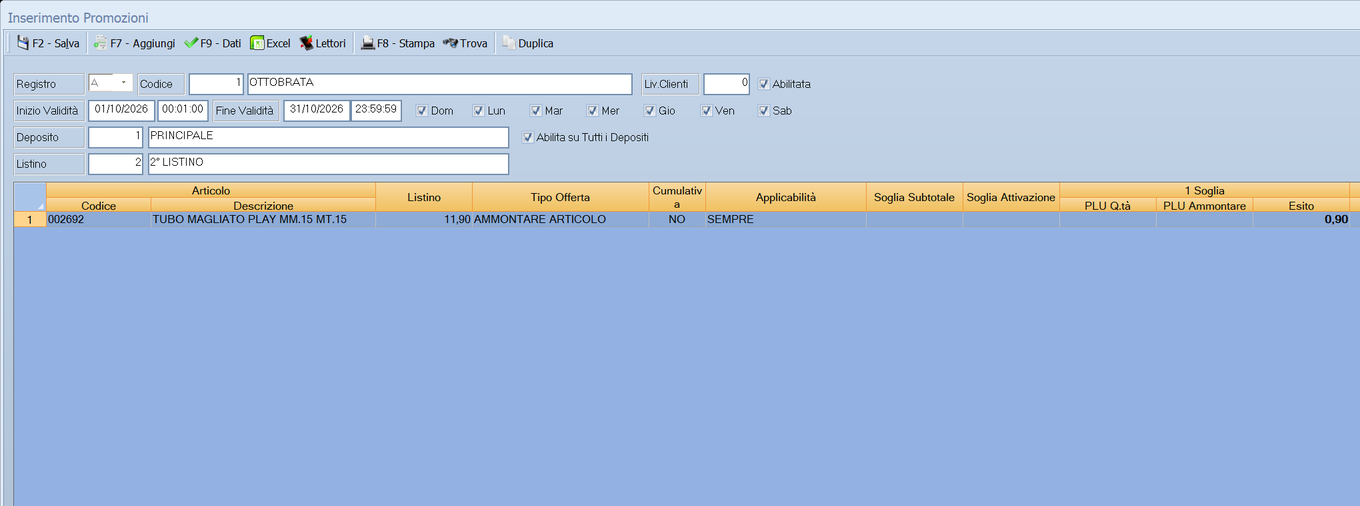
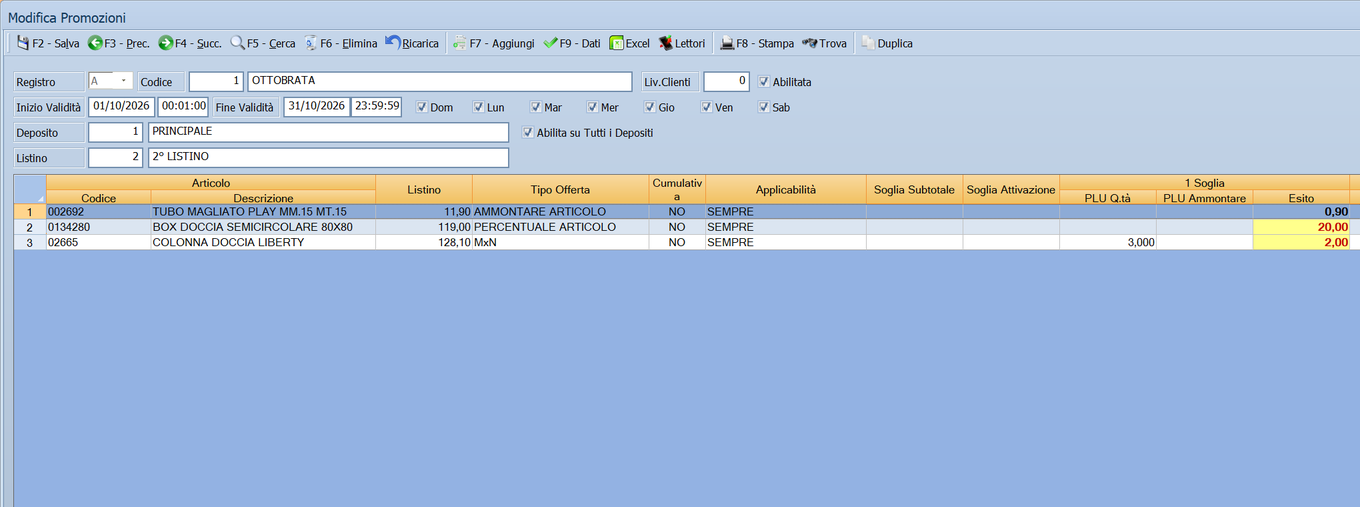
Promozioni: esempi di taglio prezzo, sconto % e 3x2, con le schermate
Nuova sezione "Impostare le tre promozioni piu' comuni" con le tre righe
della promozione OTTOBRATA: 02 - Ammontare Articolo (con il tasto F10 che
trasforma il prezzo promozionale nello sconto), 04 - Percentuale Articolo
e 05 - MxN. Rifatte le schermate della testata e della riga, prese dopo il
passaggio al nuovo font delle etichette.

Corretto dal codice: il 3x2 lo applica anche il Pos Touchscreen, non solo
le casse. Aggiunti alla tabella della riga Sconto Aggiuntivo e Azione
Posticipata, che mancavano. Due domande aperte (DA VERIFICARE): che cosa
fa Azione Posticipata sulla cassa, e se per il 3x2 va (Si) o (No).

Changed region(s): [[0.0, 0.0, 1.0, 0.504]]

diff --git a/docs/moduli/vendite/promozioni.md b/docs/moduli/vendite/promozioni.md
@@ -119,6 +119,8 @@ prezzo netto in promozione è 11,00.
 | **Casualità** | | La quota di casualità nell'applicazione dell'offerta. La usano **solo le casse SysPC**. | da `0` a `32767` |
 | **Frontalino** | | Il formato del frontalino da stampare per questa riga. | `PICCOLO`, `MEDIO`, `GRANDE`, `NESSUNO` |
 | **Codice Mix** | | Il codice che lega fra loro le righe di un'offerta mista. | codice |
+| **Sconto Aggiuntivo** | | Compare solo con `04 - Percentuale Articolo`, e solo se la ditta lavora a prezzi IVA esclusa. Con la spunta, sui documenti la percentuale si aggiunge agli sconti già presenti sulla riga; senza, la riga prende il prezzo promozionale e perde gli altri sconti. | spunta |
+| **Azione Posticipata** | | Viene trasmessa solo alle casse SysPC, e solo per le offerte `02`, `04`, `07` e a gruppo di articoli. Facile non la usa. <!-- DA VERIFICARE: che cosa fa la cassa SysPC quando l'azione è posticipata? --> | spunta |
 
 Aprendo una riga nuova, i campi non partono vuoti: **periodo, ora, giorni,
 deposito, listino, livello clienti e la spunta Abilitata** sono quelli della
@@ -126,7 +128,7 @@ testata, e l'offerta parte già impostata su `02 - Ammontare Articolo`,
 `(No) - Articoli Autonomi`, applicabilità **Sempre**, limiti da `0,01` a
 `9.999.999,99` e frontalino `PICCOLO`.
 
-!!! warning "In Facile valgono solo tre tipi di offerta su diciassette"
+!!! warning "Sui documenti di Facile valgono solo tre tipi di offerta su diciassette"
 
     Le diciassette forme di offerta descrivono quello che sa fare il **punto
     cassa**. Quando invece è Facile a fare il documento — vendita al banco,
@@ -142,7 +144,8 @@ testata, e l'offerta parte già impostata su `02 - Ammontare Articolo`,
 
     Tutte le altre — il 3x2, il paniere, i coupon, le multisoglia — sono
     trasmesse alle casse e applicate lì: sul documento fatto da Facile non
-    hanno effetto.
+    hanno effetto. Fa eccezione il 3x2, che il **Pos Touchscreen** calcola
+    anche da sé: vedi [Prendi 3 paghi 2](#prendi-3-paghi-2).
 
 !!! note "Come si leggono Tipo Offerta, Cumulativa e Applicabilità insieme"
 
@@ -161,6 +164,7 @@ testata, e l'offerta parte già impostata su `02 - Ammontare Articolo`,
     | Sconto fisso sull'articolo, sempre | `02 - Ammontare Articolo` | `(No)` | `Sempre` |
     | Sconto percentuale sull'articolo, sempre | `04 - Percentuale Articolo` | `(No)` | `Sempre` |
     | Prendi 3 paghi 2 | `05 - MxN` | `(Si)` | `Sempre` |
+    <!-- DA VERIFICARE: il 3x2 di esempio in "Come si fa" usa (No) - Articoli Autonomi; per le casse vale (Si) o (No)? Facile non legge questo campo. -->
     | Sconto solo sul primo pezzo dello scontrino | `02` oppure `04` | `(No)` | `Una Volta nello Scontrino` |
     | Regalo al raggiungimento di una soglia | `06 - Regalo Articolo` | `(Set)` | `In Continuo dopo la Soglia` |
     | Sconto su un insieme di articoli diversi | `10` o `11` — gruppo articoli | `(Pan) - Paniere` | `Sempre` |
@@ -211,6 +215,98 @@ testata, e l'offerta parte già impostata su `02 - Ammontare Articolo`,
 5. Premi **F8 - Stampa ▸ Stampa Frontalini Promozione** per i cartellini.
 6. Manda la promozione alle casse da **Menu ▸ Casse e Bilance**, con
    [Invio Variazioni Articoli](../casse-bilance/casse.md).
+
+### Impostare le tre promozioni più comuni
+
+Il taglio di prezzo, lo sconto in percentuale e il *prendi 3 paghi 2* sono le
+offerte che si usano più spesso. I tre esempi sono le righe della promozione
+*OTTOBRATA* che si vede in [La maschera](#la-maschera): vale tutto ottobre,
+tutti i giorni, sul deposito 1 e sul 2° listino.
+
+Per ciascuno si parte allo stesso modo:
+
+1. Con la promozione aperta, premi **F7 - Aggiungi** e scegli *Promozione
+   Standard*.
+2. Indica l'articolo. Si apre la finestra della riga, con il prezzo di listino
+   già riportato in **Listino**.
+3. Compila la riga come spiegato negli esempi che seguono e salvala con
+   **F2 - Salva**. La riga compare nella griglia della promozione.
+
+In tutti e tre gli esempi **Soglia Q.tà** (per il 3x2, **Valore M**) e
+**Soglia Ammont.** si compilano solo nella prima riga di **Soglie Effetti**;
+le altre nove restano a zero.
+
+#### Taglio di prezzo: da 11,90 a 11,00
+
+Il tubo costa 11,90 a listino e in promozione va venduto a 11,00.
+
+![Riga con il taglio di prezzo](../../assets/img/vendite/promozioni-riga.png)
+
+1. In **Tipo Offerta** lascia `02 - Ammontare Articolo`, che sulle righe nuove
+   è già proposto.
+2. Lascia **Offerta Cumulativa** su `(No) - Articoli Autonomi` e
+   **Applicabilità** su `Sempre`.
+3. Nella prima riga di **Soglie Effetti** lascia **Soglia Q.tà** e
+   **Soglia Ammont.** a zero.
+4. In **Sconto €** scrivi quanto togliere al prezzo: `0,90`.
+5. Premi **F2 - Salva**. Prima del salvataggio **Prezzo Netto** mostra `11,00`;
+   in griglia la riga è *AMMONTARE ARTICOLO* con esito `0,90`.
+
+!!! tip "Se conosci il prezzo promozionale e non lo sconto"
+
+    Scrivi in **Sconto €** il prezzo a cui vuoi vendere, `11,00`, e premi
+    ++f10++: il programma lo trasforma nello sconto, `0,90`. Funziona solo con
+    `02 - Ammontare Articolo` e con un prezzo più basso di quello di listino.
+
+#### Sconto in percentuale: il 20%
+
+Il box doccia costa 119,00 a listino e in promozione ha il 20% di sconto.
+
+![Riga con lo sconto in percentuale](../../assets/img/vendite/promozioni-riga-percentuale.png)
+
+1. In **Tipo Offerta** scegli `04 - Percentuale Articolo`. L'intestazione
+   dell'effetto diventa **Sconto %**.
+2. Lascia **Offerta Cumulativa** su `(No) - Articoli Autonomi` e
+   **Applicabilità** su `Sempre`.
+3. Nella prima riga di **Soglie Effetti** lascia **Soglia Q.tà** e
+   **Soglia Ammont.** a zero.
+4. In **Sconto %** scrivi `20`.
+5. Premi **F2 - Salva**. Prima del salvataggio **Prezzo Netto** mostra
+   `95,20`, cioè 119,00 meno il 20%; in griglia la riga è
+   *PERCENTUALE ARTICOLO* con esito `20,00`.
+
+Se la ditta lavora a prezzi IVA esclusa (**Prezzi Ivati** = `NO` nei
+[parametri di magazzino della ditta](../anagrafiche/ditte.md#scheda-parametri-magazzino)),
+nella finestra compare anche la spunta **Sconto Aggiuntivo**. Con la spunta, sui
+documenti il 20% si aggiunge agli sconti che la riga ha già; senza, la riga
+prende il prezzo promozionale e gli altri sconti si azzerano.
+
+Sia il taglio di prezzo sia lo sconto in percentuale valgono anche sui
+documenti fatti da Facile, perché hanno **Applicabilità** `Sempre` e le soglie
+a zero. Con una soglia di quantità superiore a uno, o con una soglia di
+ammontare, sui documenti di Facile non valgono più.
+
+#### Prendi 3 paghi 2
+
+La colonna doccia costa 128,10: chi ne prende tre ne paga due.
+
+![Riga con il prendi 3 paghi 2](../../assets/img/vendite/promozioni-riga-mxn.png)
+
+1. In **Tipo Offerta** scegli `05 - MxN`. Le intestazioni cambiano:
+   **Valore M** prende il posto di **Soglia Q.tà**, **Valore N** quello
+   dell'effetto, e la colonna del prezzo netto resta vuota.
+2. Lascia **Offerta Cumulativa** su `(No) - Articoli Autonomi` e
+   **Applicabilità** su `Sempre`.
+3. Nella prima riga di **Soglie Effetti** scrivi in **Valore M** quanti pezzi
+   si prendono, `3`, e in **Valore N** quanti se ne pagano, `2`. Lascia
+   **Soglia Ammont.** a zero.
+4. Premi **F2 - Salva**. In griglia la riga è *MxN*, con `3,000` in
+   **PLU Q.tà** ed esito `2,00`.
+
+Lo sconto scatta a gruppi interi di tre pezzi dello stesso articolo: con
+quattro pezzi se ne pagano tre, con sei se ne pagano quattro. Il 3x2 lo
+applicano le casse e il **Pos Touchscreen**; la vendita al banco da
+tastiera, le fatture e gli altri documenti non lo applicano.
 
 ### Rifare la promozione dell'anno prima
 
